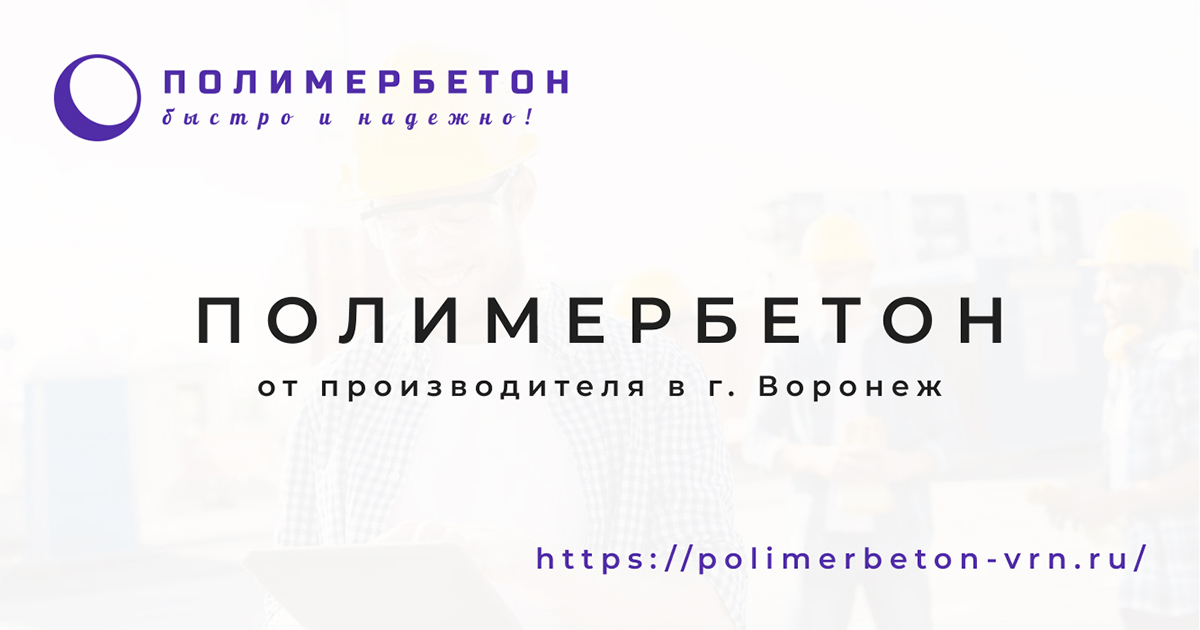
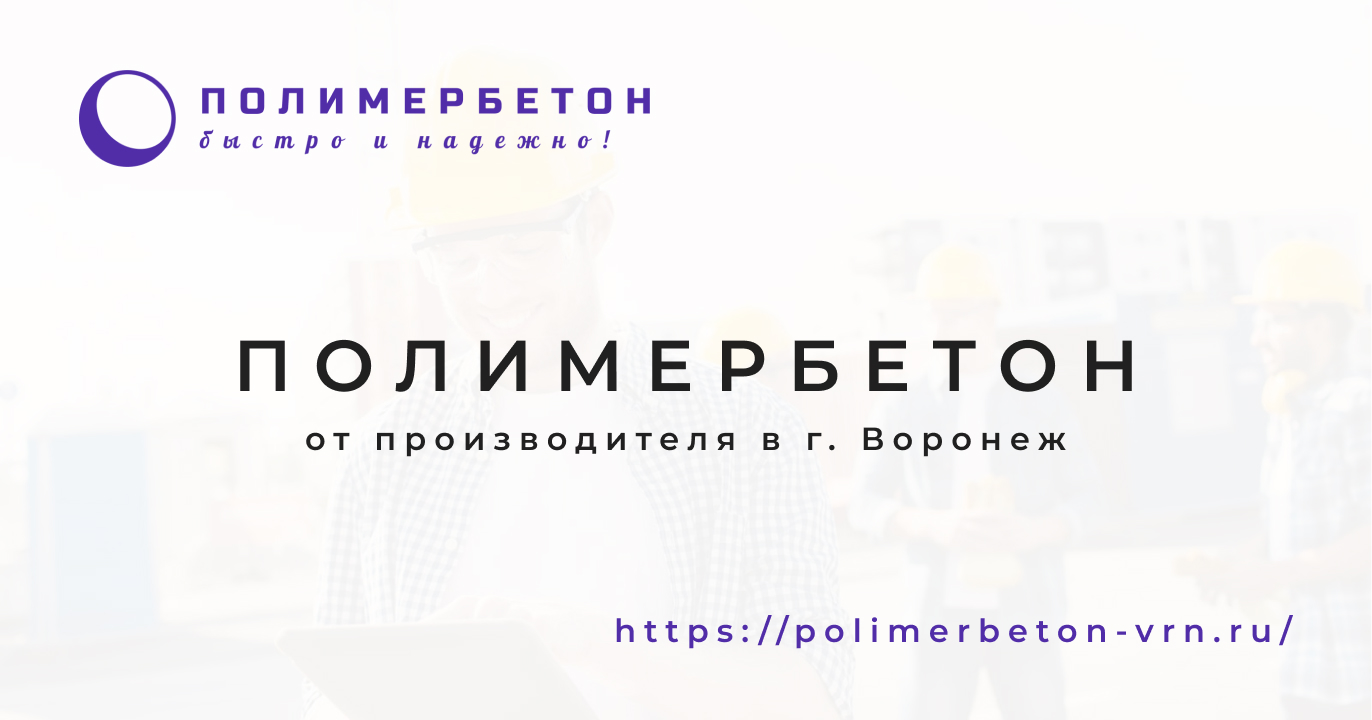
Картинки для соцсетей большего размера

diff --git a/main_app/templates/main_app/privacy.html b/main_app/templates/main_app/privacy.html
@@ -88,11 +88,11 @@
 	<meta property="og:image" itemprop="image" content="{{ http_image_url }}">
 
     <!-- Ссылка на изображение по HTTPS --->
-    <meta property="og:image:secure_url" content="{{ https_image_url }}" />
+    <meta property="og:image:secure_url" itemprop="image" content="{{ https_image_url }}" />
 
     <!-- Настройки изображения --->
-    <meta property="og:image:width" content="1200">
-    <meta property="og:image:height" content="630">
+    <meta property="og:image:width" content="1334">
+    <meta property="og:image:height" content="700">
 
     <meta property="og:image:alt" content="polimerbeton-vrn.ru — превью страницы 'privacy' для ссылок в соцсетях" />
 

diff --git a/main_app/templates/main_app/success.html b/main_app/templates/main_app/success.html
@@ -90,11 +90,11 @@
 	<meta property="og:image" itemprop="image" content="{{ http_image_url }}">
 
     <!-- Ссылка на изображение по HTTPS --->
-    <meta property="og:image:secure_url" content="{{ https_image_url }}" />
+    <meta property="og:image:secure_url" itemprop="image" content="{{ https_image_url }}" />
 
     <!-- Настройки изображения --->
-    <meta property="og:image:width" content="1200">
-    <meta property="og:image:height" content="630">
+    <meta property="og:image:width" content="1334">
+    <meta property="og:image:height" content="700">
 
     <meta property="og:image:alt" content="polimerbeton-vrn.ru — превью страницы 'success' для ссылок в соцсетях" />
 

diff --git a/main_app/templates/main_app/error.html b/main_app/templates/main_app/error.html
@@ -90,11 +90,11 @@
 	<meta property="og:image" itemprop="image" content="{{ http_image_url }}">
 
     <!-- Ссылка на изображение по HTTPS --->
-    <meta property="og:image:secure_url" content="{{ https_image_url }}" />
+    <meta property="og:image:secure_url" itemprop="image" content="{{ https_image_url }}" />
 
     <!-- Настройки изображения --->
-    <meta property="og:image:width" content="1200">
-    <meta property="og:image:height" content="630">
+    <meta property="og:image:width" content="1334">
+    <meta property="og:image:height" content="700">
 
     <meta property="og:image:alt" content="polimerbeton-vrn.ru — превью страницы 'error' для ссылок в соцсетях" />
 

diff --git a/main_app/templates/main_app/index.html b/main_app/templates/main_app/index.html
@@ -99,11 +99,11 @@
 	<meta property="og:image" itemprop="image" content="{{ http_image_url }}">
 
     <!-- Ссылка на изображение по HTTPS --->
-    <meta property="og:image:secure_url" content="{{ https_image_url }}" />
+    <meta property="og:image:secure_url" itemprop="image" content="{{ https_image_url }}" />
 
     <!-- Настройки изображения --->
-    <meta property="og:image:width" content="1200">
-    <meta property="og:image:height" content="630">
+    <meta property="og:image:width" content="1334">
+    <meta property="og:image:height" content="700">
 
     <meta property="og:image:alt" content="polimerbeton-vrn.ru — превью страницы 'home' для ссылок в соцсетях" />
 
